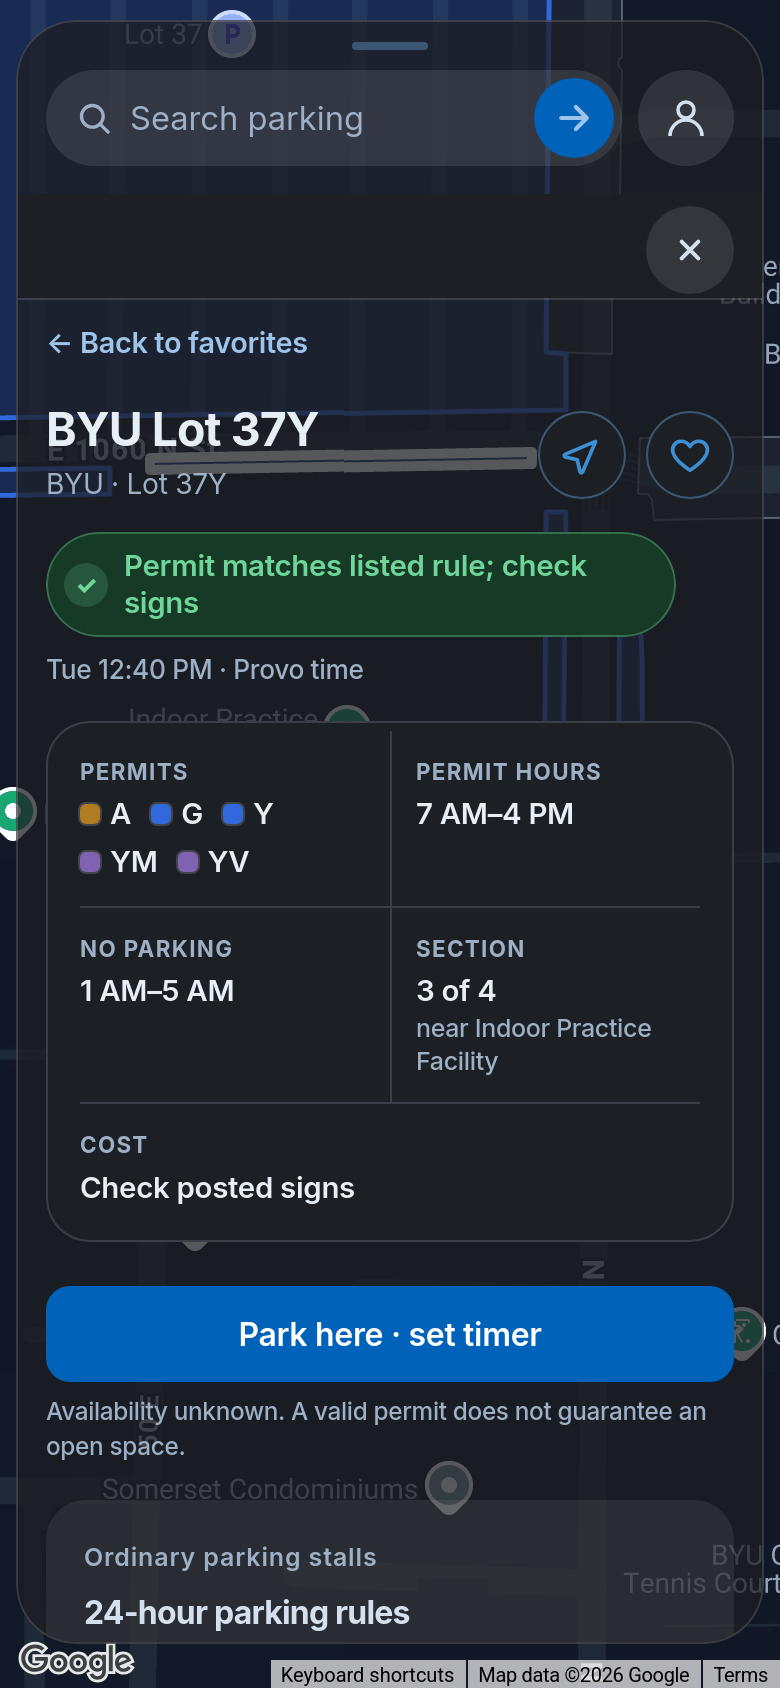
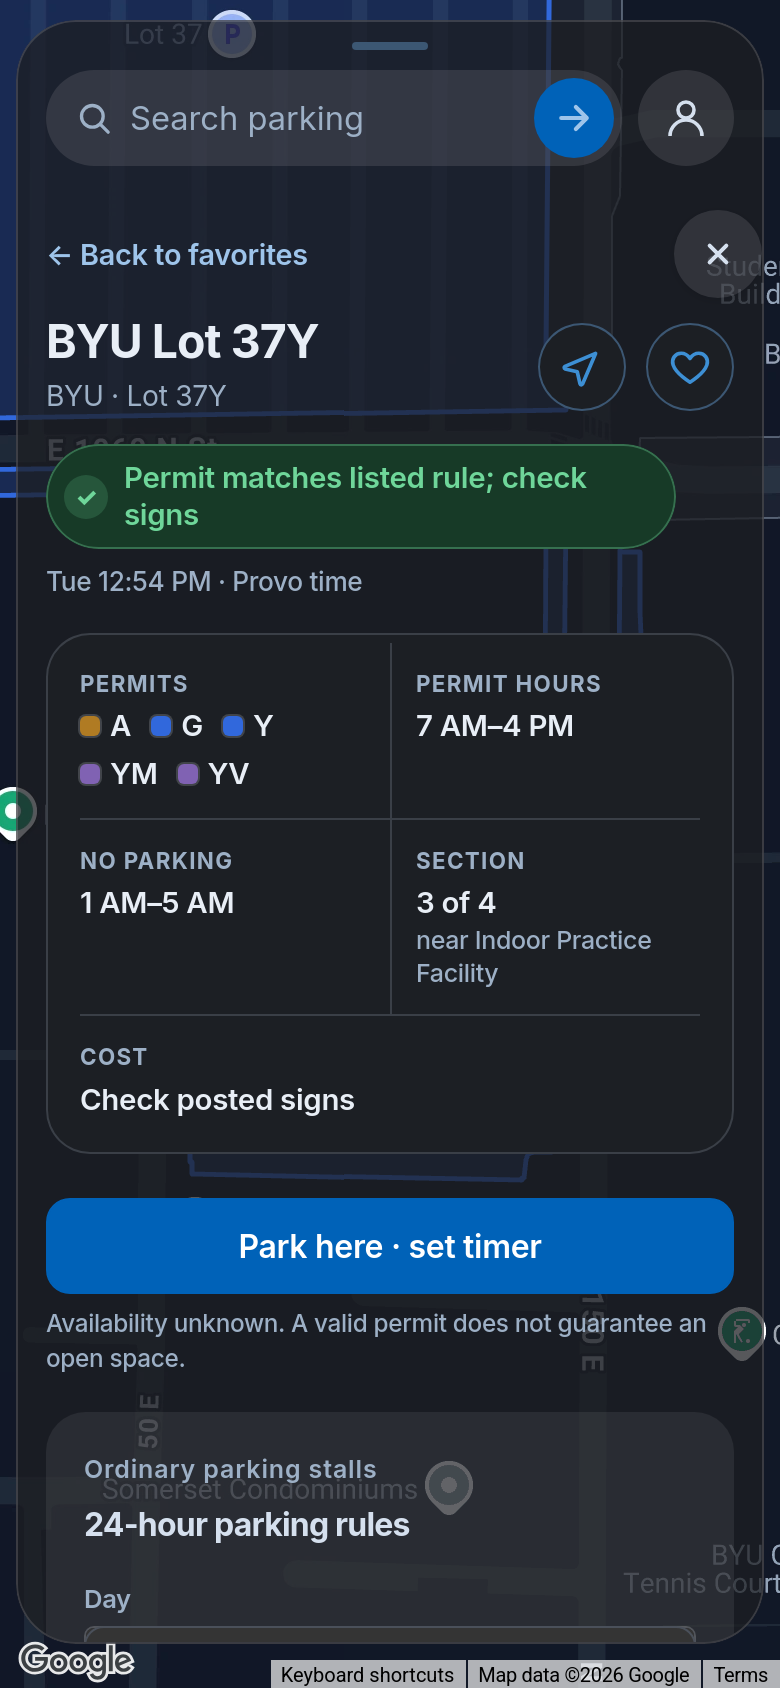
Lot detail: fold the close button onto the back link line (no blank strip)

Changed region(s): [[0.0615, 0.1232, 0.9538, 0.9858], [0.9231, 0.154, 0.9846, 0.1848]]

diff --git a/css/fullscreen-map.css b/css/fullscreen-map.css
@@ -424,3 +424,8 @@ html:has(.has-fs-home) { scrollbar-gutter: auto; scroll-padding: 0; }
 .home-sheet[data-route="find"] :is(.sheet-search-row, .map-search-status, .map-search-results) { display: none; }
 /* After a search the ranked list (Best pick first) leads; Browse and Nearby return with the close button. */
 .home-sheet[data-results] :is(#app-nav, .nearby-panel) { display: none; }
+
+/* Lot page: no separate close strip. The round close button floats on the back link's line. */
+.home-sheet[data-route="area"] .route-bar { height: 0; padding: 0; background: none; box-shadow: none; pointer-events: none; }
+.home-sheet[data-route="area"] .route-close { pointer-events: auto; margin-top: 8px; box-shadow: 0 1px 4px rgb(0 0 0 / .12); }
+.home-sheet[data-route="area"] #area-back { margin-top: 8px; margin-right: 56px; }
